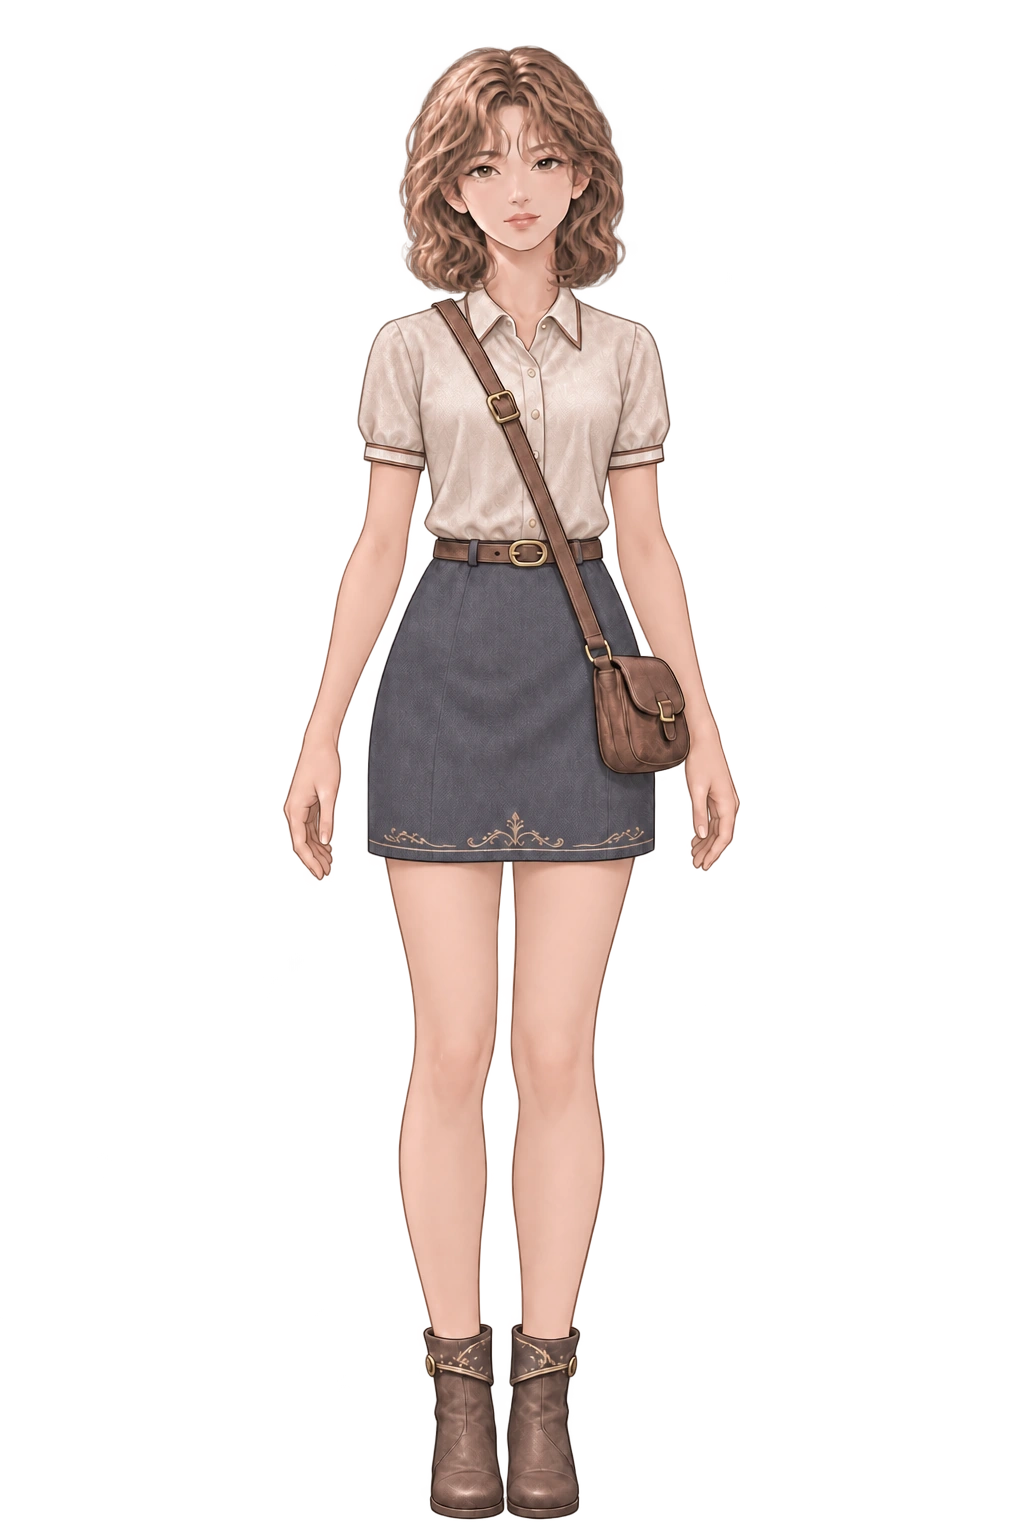
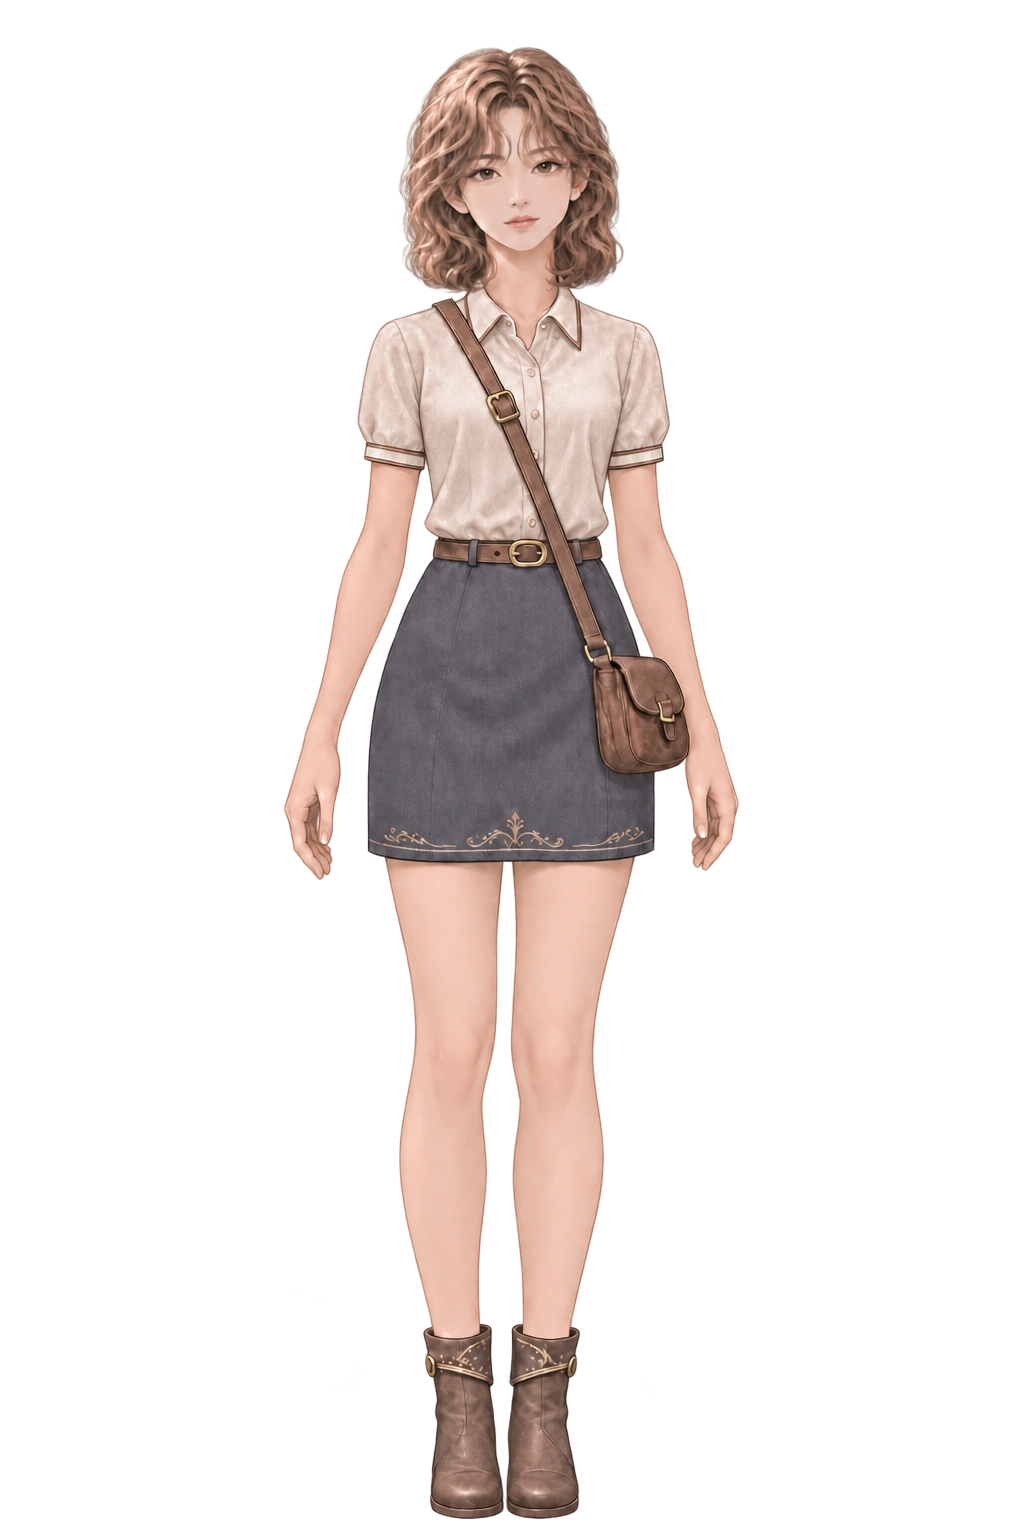
Restore Yeogyeong casual face to the approved portrait direction

diff --git a/fantasy-rpg/desktop/README.md b/fantasy-rpg/desktop/README.md
@@ -1,6 +1,6 @@
 <!-- release-summary:start -->
-# v0.42.133 차여경 이세계 일상복과 머리 비율 보정
-차여경의 이세계 일상복을 반소매와 짧은 치마로 다듬고 웨이브 볼륨을 줄였습니다. 외형 메뉴에서 발끝까지 표시합니다. Windows 실기기 검증은 별도입니다.
+# v0.42.134 차여경 일상복 얼굴 수정
+차여경 이세계 일상복의 눈매와 입매, 얼굴 피부톤을 기존 대화 초상화 기준으로 수정했습니다. Windows 실기기 검증은 별도입니다.
 <!-- release-summary:end -->
 
 # v0.42.111 · 칼리스트라와 벨카리온 설정 보완
